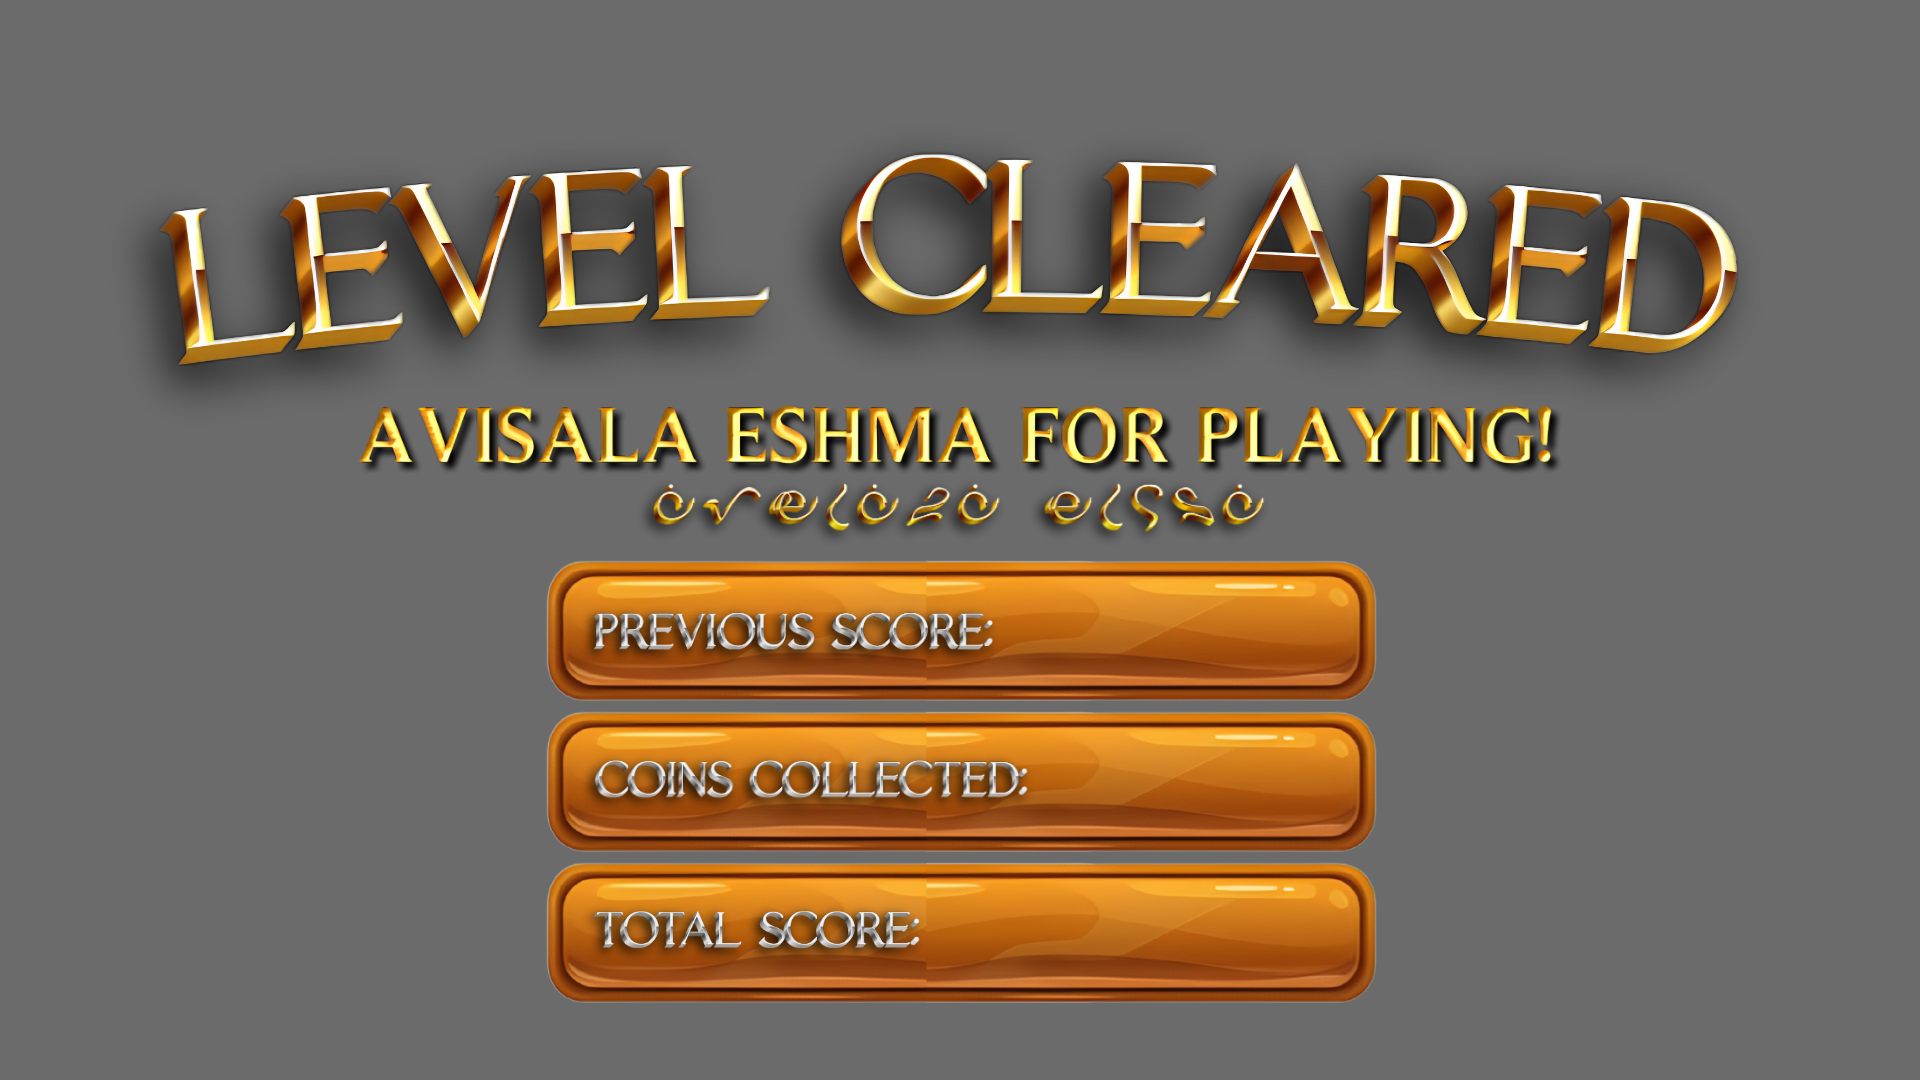
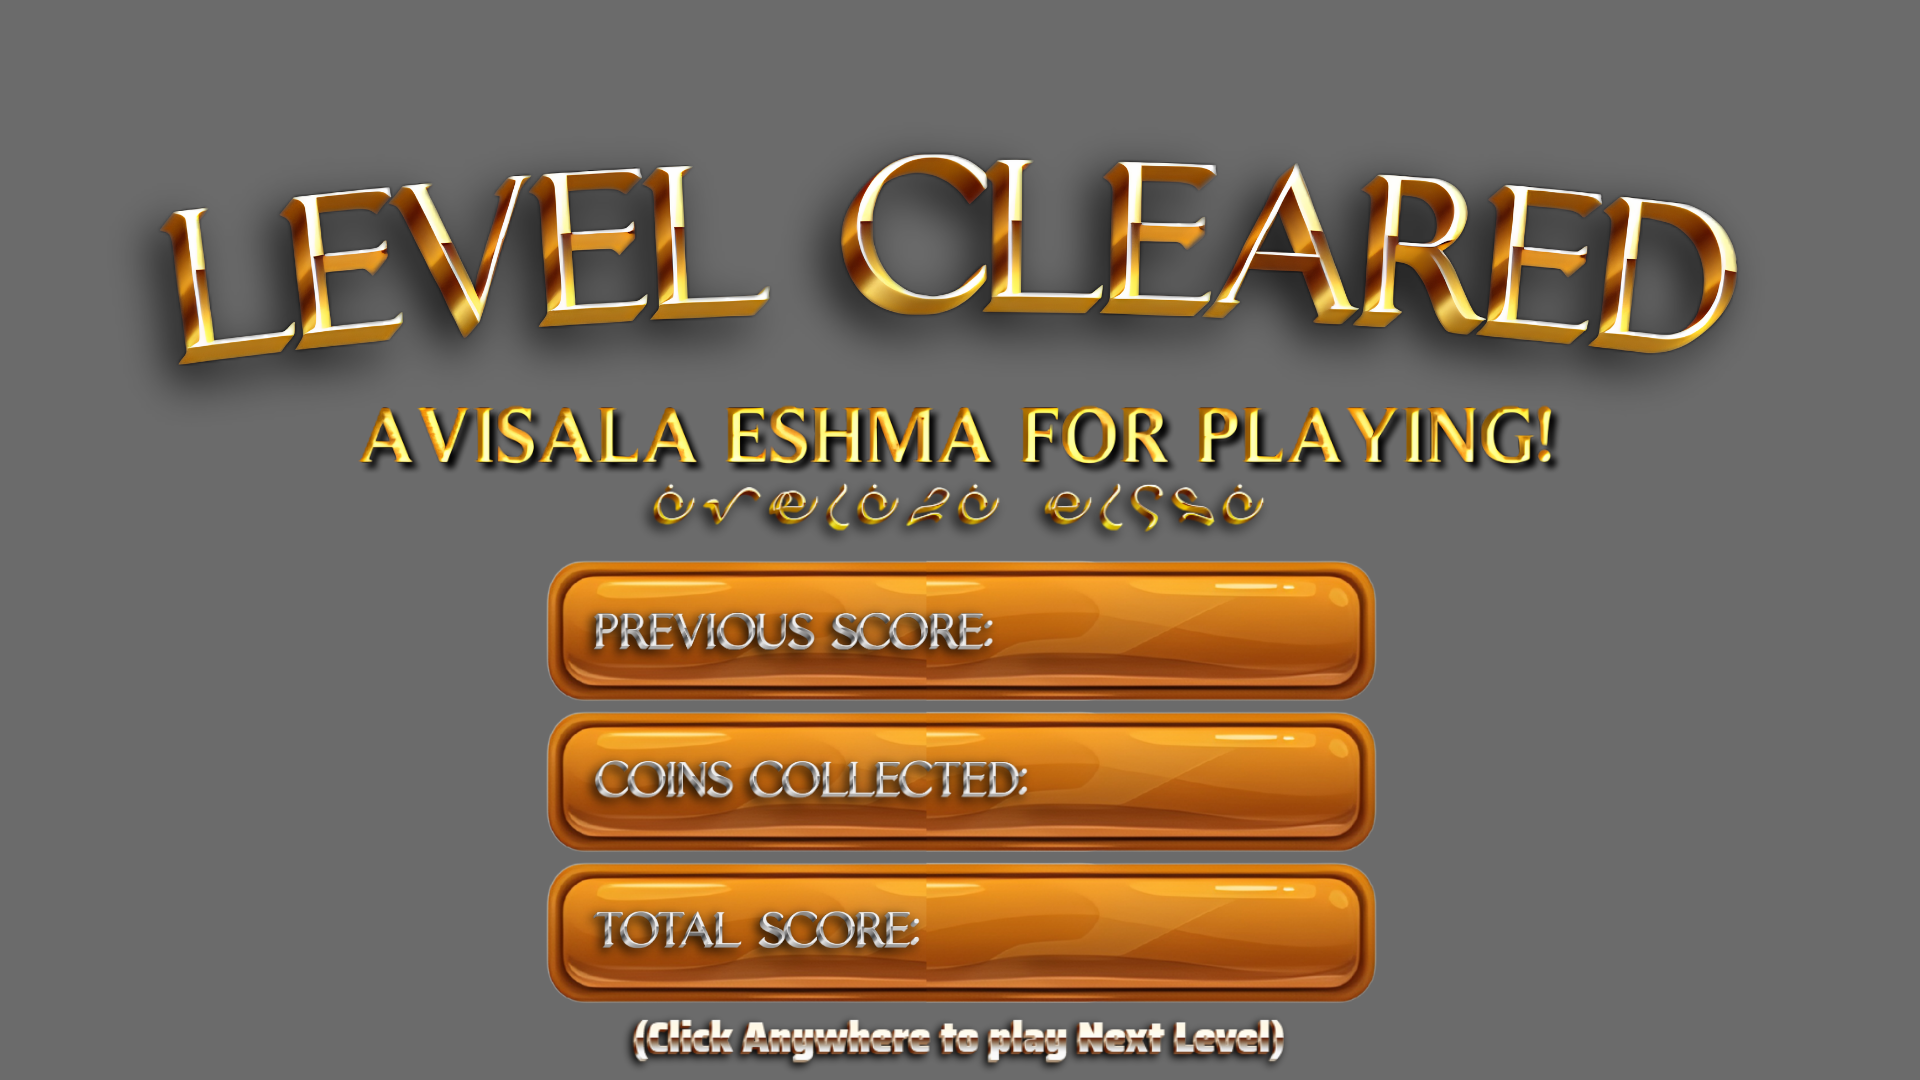
please

Changed region(s): [[0.3125, 0.9472, 0.6875, 1.0]]

diff --git a/src/core/GamePanel.java b/src/core/GamePanel.java
@@ -54,6 +54,7 @@ public class GamePanel extends JPanel implements KeyListener {
     private int coins = new CollisionSystem().getCoinsCollected();
 
     private final Thread leaderboardWorker = new Thread();
+    private boolean waitingForNextLevel = false;
 
     public GamePanel(GameLauncher launcher) {
         this.launcher = launcher;
@@ -65,6 +66,14 @@ public class GamePanel extends JPanel implements KeyListener {
         addMouseListener(new MouseAdapter() {
             @Override
             public void mouseClicked(MouseEvent e) {
+
+                if (waitingForNextLevel && congratsScreen != null) {
+    waitingForNextLevel = false;
+    congratsScreen = null;
+    loadNextLevel();
+    return;
+}
+
                 if (congratsScreen != null) {
                     leaderboardScreen = new ui.LeaderboardScreen();
                     showingLeaderboard = true;
@@ -119,7 +128,11 @@ public class GamePanel extends JPanel implements KeyListener {
 
         removeAll();
         setLayout(new BorderLayout());
-        add(new MapSelect(this, () -> showLevelSelect(selectedPlayer, map), selectedPlayer), BorderLayout.CENTER);
+        add(new MapSelect(
+        this,
+        () -> showLevelSelect(selectedPlayer, this.currentMap),
+        selectedPlayer
+), BorderLayout.CENTER);
         revalidate();
         repaint();
     }
@@ -456,6 +469,7 @@ public class GamePanel extends JPanel implements KeyListener {
 
         // player reaches top lane — award completion bonus then advance
         if (!levelTransitioning && playerLane == 0) {
+
     levelTransitioning = true;
 
     scoreManager.onReachedTop(currentLevel);
@@ -463,9 +477,24 @@ public class GamePanel extends JPanel implements KeyListener {
 
     stopThreads();
 
+    // FINAL LEVEL
+    if (currentLevel == 3) {
+
     SwingUtilities.invokeLater(() -> {
-        congratsScreen = new ui.CongratsScreen();
-        state = GameState.WIN;
+        congratsScreen = new ui.CongratsScreen(true);
+        repaint();
+    });
+
+    return;
+}
+
+    // NORMAL LEVEL CLEAR
+    currentLevel++;
+
+    waitingForNextLevel = true;
+
+    SwingUtilities.invokeLater(() -> {
+        congratsScreen = new ui.CongratsScreen(false);
         repaint();
     });
 
@@ -671,7 +700,21 @@ public class GamePanel extends JPanel implements KeyListener {
         }
 
         if (congratsScreen != null) {
-            congratsScreen.draw(g, getWidth(), getHeight());
+
+    // draw level cleared text at top
+    g.setFont(new Font("Arial", Font.BOLD, 25));
+    g.setColor(Color.WHITE);
+
+    String text = "Level - DONE";
+
+    FontMetrics fm = g.getFontMetrics();
+    int x = (getWidth() - fm.stringWidth(text)) / 2;
+    int y = 70;
+
+    g.drawString(text, x, y);
+
+    // draw congrats panel normally
+    congratsScreen.draw(g, getWidth(), getHeight());
 }
     }
 
@@ -701,5 +744,18 @@ public class GamePanel extends JPanel implements KeyListener {
     }
     public void enterGameplay(Player player, GameMap map, int level) {
     startLevel(player, map, level);
+}
+
+public void loadNextLevel() {
+    currentLevel++;
+
+    if (currentLevel > 3) {
+        showFinalVictory();
+        return;
+    }
+
+    levelTransitioning = false;
+
+    startLevel(player, currentMap, currentLevel);
 }
 }

diff --git a/src/ui/CongratsScreen.java b/src/ui/CongratsScreen.java
@@ -7,34 +7,70 @@ public class CongratsScreen {
 
     private Image bgImage;
     private Image okImage;
+    private Image levelClearedImage;
 
-    public CongratsScreen() {
+    private boolean finalClear;
+
+    public CongratsScreen(boolean finalClear) {
+
+        this.finalClear = finalClear;
 
         bgImage = AssetManager.getInstance()
                 .getCongrats("levelClearedBackground");
 
         okImage = AssetManager.getInstance()
                 .getButton("playAgainButton");
+
+        levelClearedImage = AssetManager.getInstance()
+                .getCongrats("levelCleared");
     }
 
     public void draw(Graphics g, int w, int h) {
 
         Graphics2D g2 = (Graphics2D) g.create();
 
+        // background
         if (bgImage != null) {
             g2.drawImage(bgImage, 0, 0, w, h, null);
         }
 
+        // ONLY show levelCleared.png on final level
+        if (finalClear && levelClearedImage != null) {
+
+            int imgW = (int)(w * 0.45);
+
+            int imgH = (int)(
+                    imgW *
+                    levelClearedImage.getHeight(null)
+                    / (double) levelClearedImage.getWidth(null)
+            );
+
+            int imgX = (w - imgW) / 2;
+            int imgY = (int)(h * 0.08);
+
+            g2.drawImage(
+                    levelClearedImage,
+                    imgX,
+                    imgY,
+                    imgW,
+                    imgH,
+                    null
+            );
+        }
+
+        // button
         int btnW = (int)(w * 0.12);
 
         int btnH = (okImage != null)
-                ? (int)(btnW * okImage.getHeight(null)
-                / (double) okImage.getWidth(null))
+                ? (int)(
+                        btnW *
+                        okImage.getHeight(null)
+                        / (double) okImage.getWidth(null)
+                )
                 : (int)(btnW * 0.45);
 
         int btnX = (w - btnW) / 2;
         int btnY = (int)(h * 0.75);
-
 
         if (okImage != null) {
             g2.drawImage(okImage, btnX, btnY, btnW, btnH, null);
@@ -42,6 +78,4 @@ public class CongratsScreen {
 
         g2.dispose();
     }
-
-    
 }

diff --git a/src/assets/AssetManager.java b/src/assets/AssetManager.java
@@ -100,6 +100,9 @@ public class AssetManager {
 
     congrats.put("playAgainButton",
             loadImage("assets/Buttons/playAgainButton.png"));
+
+    congrats.put("levelCleared",
+            loadImage("assets/Backgrounds/levelCleared.png"));
 }
 
     private void loadLogo() {
